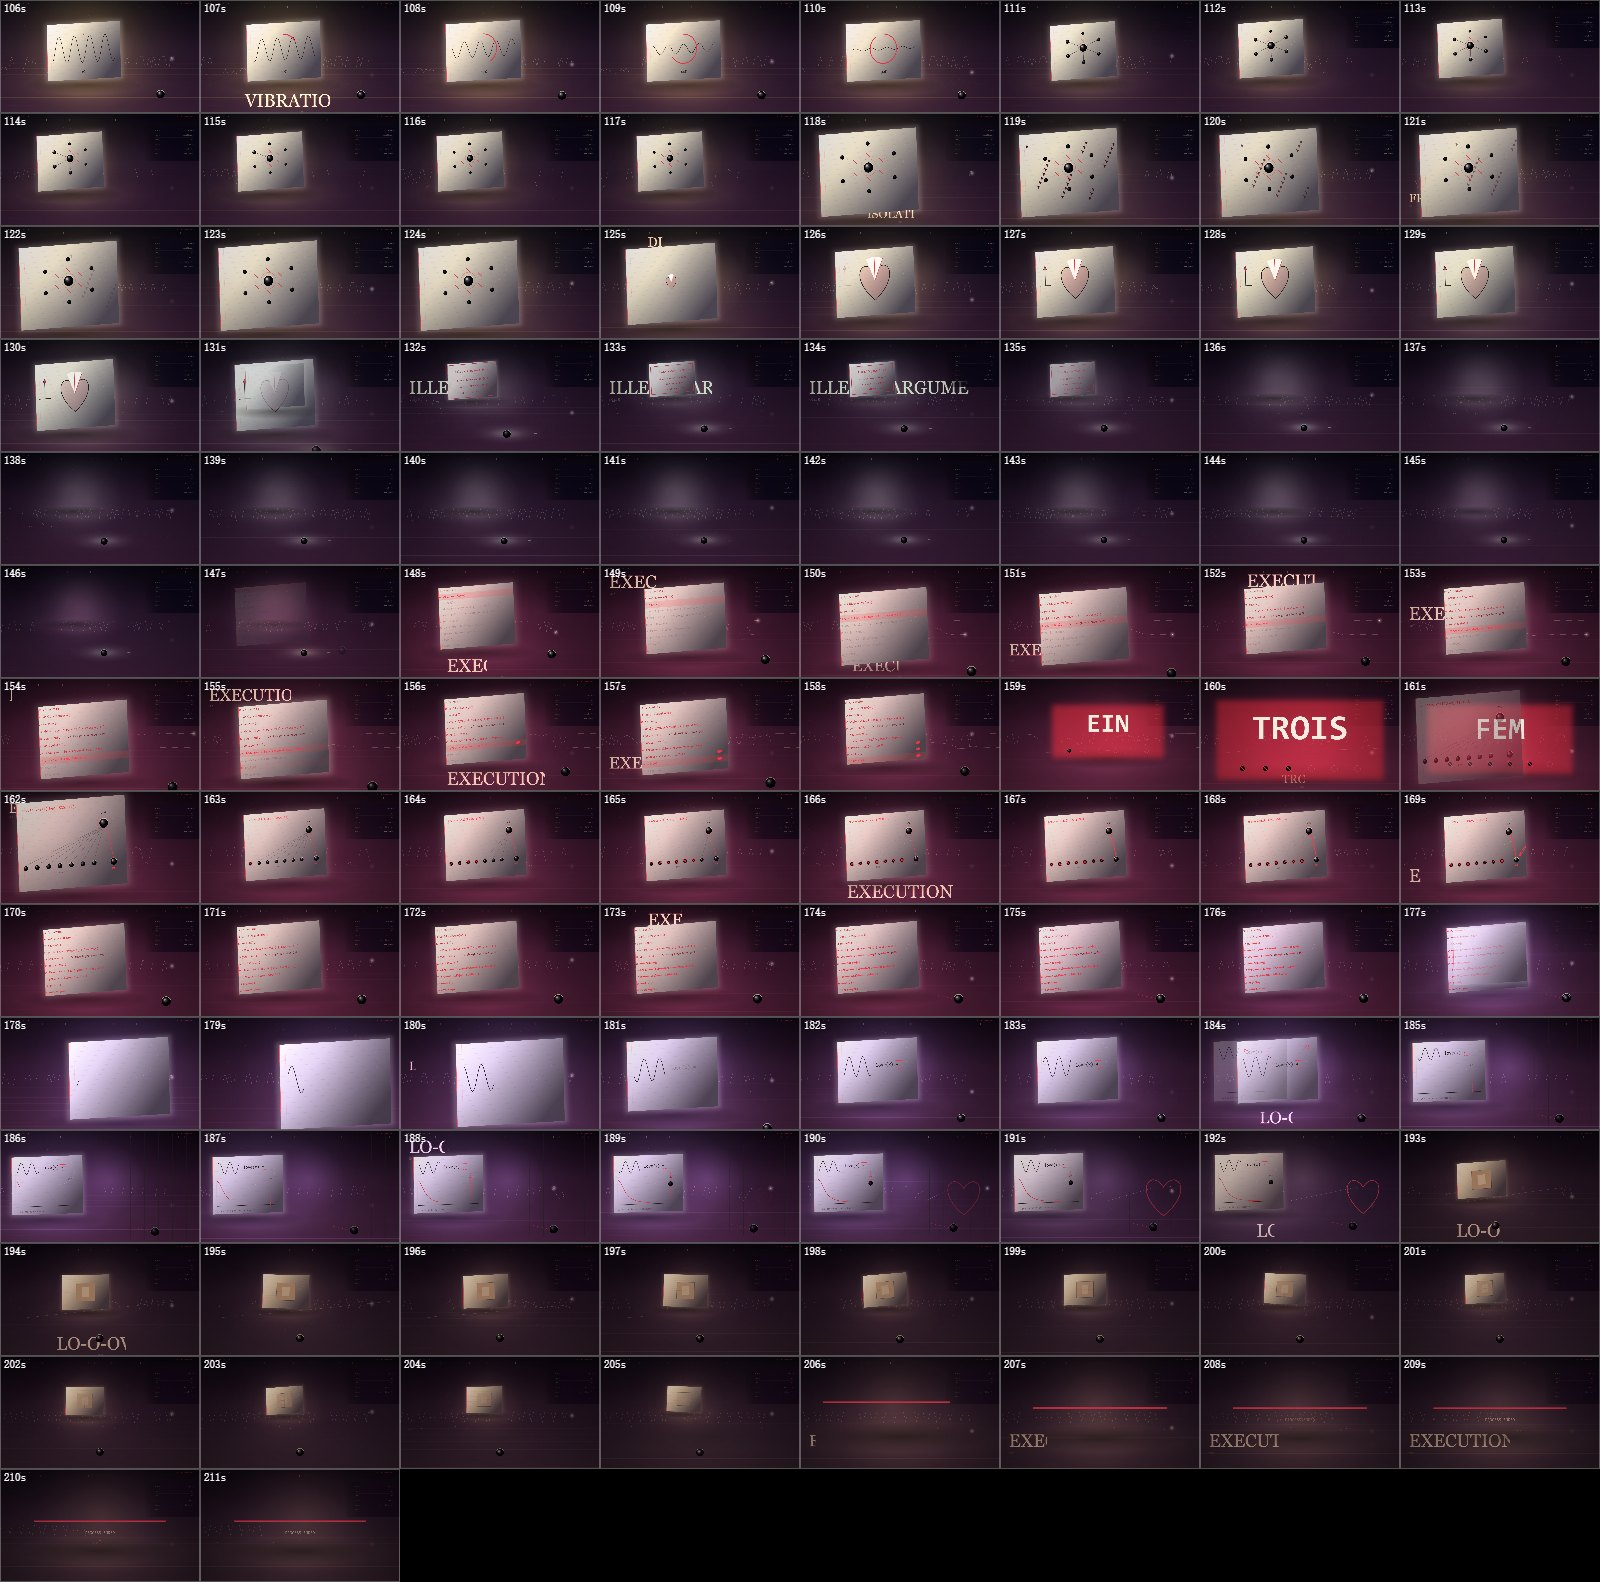
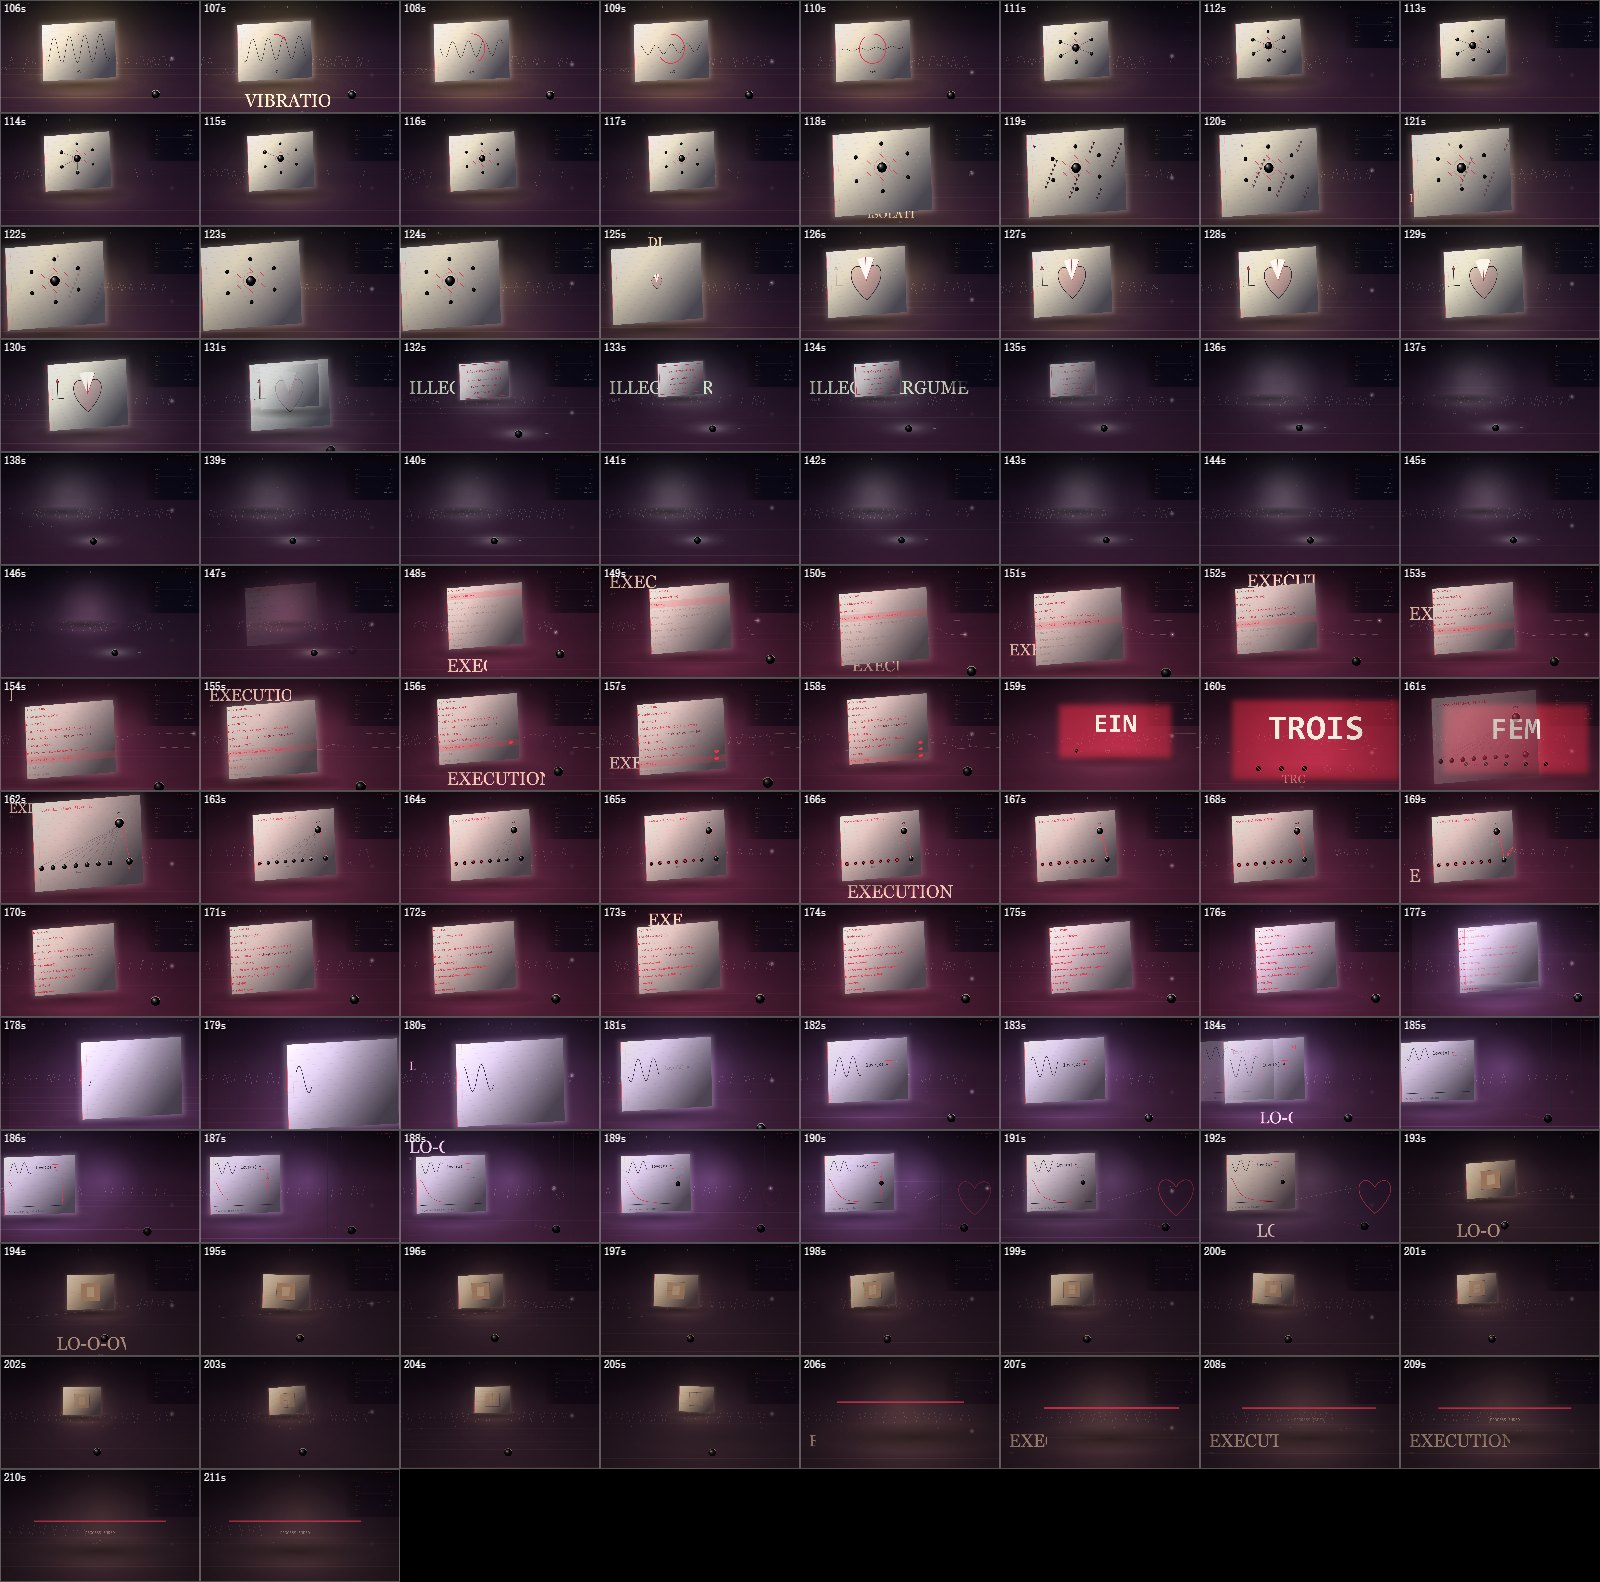
Walk the camera sideways, and size the cage to the sheet it holds
Moving the hall into screen space made one previously pointless gesture worth doing: a lateral
truck that completes one sweep per eight bars. With everything sharing one matrix, panning left
and right just relocated the picture; now the sheet answers cam.x at 1x and the hall at 0.55x, so
the camera moving means the camera is walking through a room. Applied after the smoothing state
and never fed back into it, or the drift would compound. Measured across 66/69/72 s the sheet's
left edge travels 0.166 -> 0.198 -> 0.133 of the frame width.

The truck then lit up a defect at 72 s: the iron bars for "Though we are trapped" were sized to
the room - top of frame down to the floor, 992 wide - so they stood in front of the lens as a red
fence, which is the opposite of the line. Sized to the sheet instead (L.y-40 to L.y+L.h+22, width
L.w*1.34, 7 bars down to 5), the visible evidence is a few bars emerging above and below the
paper: the cage is inferred rather than planted in the foreground.

Rescan of 25,429 frames: 0 unattributed flashes, 22 spikes = 10 dissolve + 12 hard-cut, flags
69 -> 67. The truck costs one notch of motion (verse mean 0.5 -> 0.6, boot pan rate 0.4 -> 1.7),
far below anything the eye reads as shake, and bought two free cells of light: boot's darkest
frame 19 -> 32 and the interlude's 55 -> 66, because the ground now has a colour of its own and
the film no longer opens on pure black.
[…]

diff --git a/mv/scenes.js b/mv/scenes.js
@@ -597,8 +597,10 @@ S.push({ id: 'chorus1', from: 59.22, to: 74.04,
     room(g, col, F, t, L, { reach: 1.9 });
     if (t > 70.08) {                                         /* we are trapped — behind the sheet */
       const u = oback(seg(t, 70.08, 73.6));
-      g.strokeStyle = rgba(ACC, 0.85); g.lineWidth = 6;
-      G.cage(g, DW * 0.5, DH * 0.06 - (1 - u) * 300, GY + 20, DW * 0.62, 7);
+      /* sized to the sheet, not to the room: spanning the full frame height it read as a red fence
+         planted in front of the picture, which is the opposite of the line being sung */
+      g.strokeStyle = rgba(ACC, 0.72); g.lineWidth = 5;
+      G.cage(g, L.x + L.w / 2, L.y - 40 - (1 - u) * 180, L.y + L.h + 22, L.w * 1.34, 5);
     }
     page(g, col, L, { blur: 34 });
     const gu = seg(t, 59.22, 65.39);

diff --git a/mv/mv.js b/mv/mv.js
@@ -304,7 +304,12 @@ function cameraFor(t) {
     camState.y += (f.y - camState.y) * a;
   }
   camStateT = t;
-  lastCam = { z: camState.z, x: camState.x, y: camState.y, shake: f.shake };
+  /* One slow lateral sweep per eight bars. The hall answers cam.x at 0.55x and the sheet at 1x, so
+     the two slide past each other while nothing inside either one moves — that disagreement is the
+     difference between a set and a room. Applied after the smoothing state, never fed back into it,
+     or the drift would compound itself. */
+  const drift = window.MUSIC ? Math.sin(t * Math.PI * 2 / (32 * 60 / window.MUSIC.meta.bpm)) * DW * 0.055 : 0;
+  lastCam = { z: camState.z, x: camState.x + drift, y: camState.y, shake: f.shake };
   return lastCam;
 }
 

diff --git a/README.md b/README.md
@@ -373,9 +373,21 @@ boot / theorem / condition / flesh / absence / execution / love。
 两处按渲染结果收的口子：天空与地面在 `hy` 处必须交于**同一个颜色**，否则画面上出现一道硬接缝；
 扇形线从 0.3 降到 0.13，全强度时它在纸后面炸成一朵星芒，抢过图。
 
-**这一轮结束时重扫 25,429 帧：仍然 0 未归因闪现**（23 个尖峰＝10 溶解 + 13 硬切）。
-死黑那一格抬起来了：`dusk` 段最低亮度 31 → 39、细节密度 14.7 → 17.9，`outro` 29 → 36——
-最暗的地方不再是"什么都没有"，而是一团光落在地上的房间。
+**运镜：让摄影机真的横向走位**。地面搬到屏幕空间之后，才终于可以做一件之前做了也没意义的事——
+一个每八个乐句走完一次的横移（`cameraFor` 里 `sin(2πt/15s) × DW×0.055`）。之前整幅画共用一个矩阵，
+左右平移只是把图挪一挪；现在纸按 1 倍响应 `cam.x`、大厅按 0.55 倍，两者一错开，镜头一动就是
+"摄影机在房间里走"。量出来的效果：66 / 69 / 72 秒三帧，纸的左缘从 0.166 → 0.198 → 0.133 幅宽
+（`analysis/frame-truck.jpg`）。漂移加在平滑状态**之后**、且不回喂，否则它会自己叠加。
+
+**铁栏收到纸的尺寸**。横移把 72 秒那一镜的另一处毛病照亮了：`Though we are trapped` 的铁栏是按
+**房间**画的（从画面顶到地面、宽 992），于是它是一排红色栅栏立在镜头前面，正好唱反调。改成按
+**纸**画（顶到 `L.y - 40`、底到 `L.y + L.h + 22`、宽 `L.w × 1.34`、5 根、线宽 6 → 5）：
+现在看得见的是几根从纸上方和下方探出来的栏，铁笼是被推断出来的，而不是挡在画面前的（`frame-cage-sized.jpg`）。
+
+**这一轮结束时重扫 25,429 帧：0 未归因闪现**（22 个尖峰＝10 溶解 + 12 硬切），flags 69 → 67。
+横移把运动均值抬高了一档（主歌 0.5 → 0.6、开场镜头速率 0.4 → 1.7），这是买视差的钱，仍然远低于
+任何会被眼睛读成抖动的水平。顺带白捡的两格亮度：开场 `minLum` 19 → 32、间奏 55 → 66——
+地面本身带颜色之后，镜头不再从一块纯黑开始。
 
 ## 三次返工：从可视化到一间暗房
 
